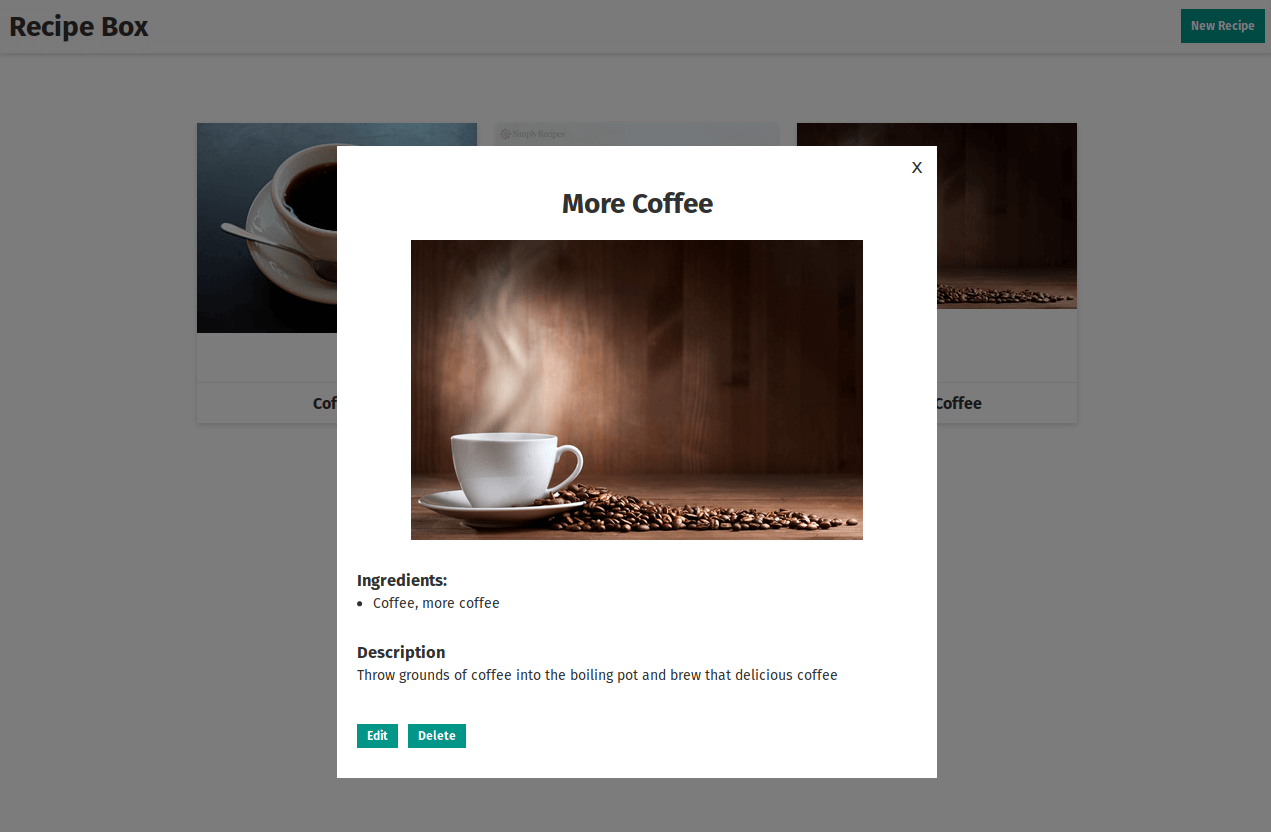
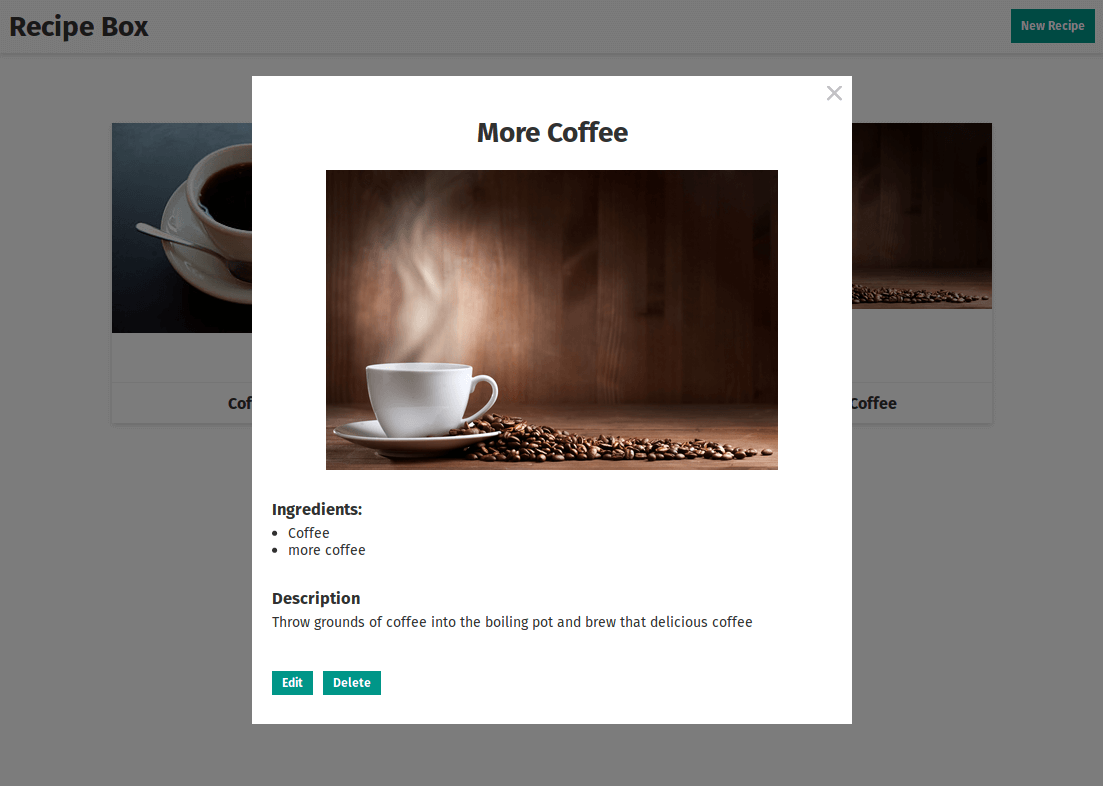
Saving recipes to local storage, added close modal button

Changed region(s): [[0.0925, 0.0916, 0.9248, 0.9466], [0.0, 0.0, 0.1541, 0.0611], [0.8939, 0.0, 1.0, 0.0611]]

diff --git a/React_projects/3.build_a_recipe_box/public/main.css b/React_projects/3.build_a_recipe_box/public/main.css
@@ -1,1 +1,1 @@
-*{padding:0;margin:0;-webkit-box-sizing:border-box;box-sizing:border-box;color:#313131;font-family:"Fira Sans", sans-serif}body{background-color:#fafafa}.navbar{display:-webkit-box;display:-webkit-flex;display:-ms-flexbox;display:flex;width:100%;padding:10px;-webkit-box-shadow:0px 2px 5px #d3d3d3;box-shadow:0px 2px 5px #d3d3d3;background-color:#f5f5f5}.spacer{-webkit-box-flex:2;-webkit-flex-grow:2;-ms-flex-positive:2;flex-grow:2}.new-recipe input[type=text],.new-recipe textarea{margin-bottom:15px}.card-title{text-align:center;margin-bottom:20px}.new-recipe button{width:80px;margin-right:10px}.overlay{position:fixed;top:0;left:0;width:100%;height:100vh;background-color:rgba(0, 0, 0, 0.5);z-index:1;cursor:pointer}.recipe-container{display:-webkit-box;display:-webkit-flex;display:-ms-flexbox;display:flex;margin:0 auto;max-width:100%;width:940px;padding:60px 20px;-webkit-box-orient:horizontal;-webkit-box-direction:normal;-webkit-flex-flow:row;-ms-flex-flow:row;flex-flow:row;-webkit-flex-wrap:wrap;-ms-flex-wrap:wrap;flex-wrap:wrap;-webkit-box-pack:center;-webkit-justify-content:center;-ms-flex-pack:center;justify-content:center}.recipe{margin:10px;width:280px;max-width:100%;-webkit-box-shadow:0px 2px 5px #d3d3d3;box-shadow:0px 2px 5px #d3d3d3;cursor:pointer;position:relative;height:300px}.recipe img{width:100%;max-width:100%;max-height:280px}.recipe .title{text-align:center;font-weight:700;font-size:16px;position:absolute;line-height:40px;left:50%;-webkit-transform:translate(-50%, 0);-ms-transform:translate(-50%, 0);transform:translate(-50%, 0);bottom:0;border-top:1px solid #e9e9e9;width:100%}.modal{width:600px;max-width:100%;position:fixed;left:50%;top:50%;-webkit-transform:translate(-50%, -50%);-ms-transform:translate(-50%, -50%);transform:translate(-50%, -50%);z-index:2;background-color:#fff;padding:40px 20px 0;max-height:calc(100vh - 150px);overflow-y:auto}.modal-close{position:absolute;top:5px;right:5px;width:30px;height:30px;cursor:pointer;text-align:center;line-height:30px;-webkit-transition:all 0.2s linear;-o-transition:all 0.2s linear;transition:all 0.2s linear;font-family:monospace;font-size:20px}.modal-close:hover{background-color:#009688;color:#fff}.modal-bottom-padding{display:block;width:100%;height:30px}.view-recipe img{max-width:100%;max-height:300px;height:auto;display:block;margin:20px auto}.view-recipe h3{margin-top:30px;margin-bottom:5px}.view-recipe .title{font-size:28px;text-align:center;margin-bottom:20px}.view-recipe ul{list-style-position:inside}.error-message{color:red}.row{display:-webkit-box;display:-webkit-flex;display:-ms-flexbox;display:flex;width:100%}.btn-manage-row button{margin-top:40px;margin-right:10px}button{background-color:#009688;color:#fff;border:none;padding:5px 10px;font-weight:700;cursor:pointer;-webkit-transition:all 0.2s linear;-o-transition:all 0.2s linear;transition:all 0.2s linear}button:hover{-webkit-box-shadow:0px 2px 5px #d3d3d3;box-shadow:0px 2px 5px #d3d3d3}input[type=email],input[type=password],input[type=text],textarea{font-family:"Fira Sans", sans-serif;font-size:14px;color:#313131;border:1px solid #c2c0c2;-webkit-transition:all 0.2s linear;-o-transition:all 0.2s linear;transition:all 0.2s linear;-webkit-box-shadow:none;box-shadow:none;outline:none;padding:2px 5px;width:100%}.description{height:100px}input[type=email],input[type=password],input[type=text]{height:30px}input[type=email]:focus,input[type=password]:focus,input[type=text]:focus,textarea:focus{border:1px solid #8a8a8a;-webkit-box-shadow:2px 2px 8px rgba(0, 0, 0, 0.1);box-shadow:2px 2px 8px rgba(0, 0, 0, 0.1)}label{font-family:"Fira Sans", sans-serif;font-size:14px;color:#313131}
+*{padding:0;margin:0;-webkit-box-sizing:border-box;box-sizing:border-box;color:#313131;font-family:"Fira Sans", sans-serif}body{background-color:#fafafa}.navbar{display:-webkit-box;display:-webkit-flex;display:-ms-flexbox;display:flex;width:100%;padding:10px;-webkit-box-shadow:0px 2px 5px #d3d3d3;box-shadow:0px 2px 5px #d3d3d3;background-color:#f5f5f5}.spacer{-webkit-box-flex:2;-webkit-flex-grow:2;-ms-flex-positive:2;flex-grow:2}.new-recipe input[type=text],.new-recipe textarea{margin-bottom:15px}.card-title{text-align:center;margin-bottom:20px}.new-recipe button{width:80px;margin-right:10px}.overlay{position:fixed;top:0;left:0;width:100%;height:100vh;background-color:rgba(0, 0, 0, 0.5);z-index:1;cursor:pointer}.recipe-container{display:-webkit-box;display:-webkit-flex;display:-ms-flexbox;display:flex;margin:0 auto;max-width:100%;width:940px;padding:60px 20px;-webkit-box-orient:horizontal;-webkit-box-direction:normal;-webkit-flex-flow:row;-ms-flex-flow:row;flex-flow:row;-webkit-flex-wrap:wrap;-ms-flex-wrap:wrap;flex-wrap:wrap;-webkit-box-pack:center;-webkit-justify-content:center;-ms-flex-pack:center;justify-content:center}.recipe{margin:10px;width:280px;max-width:100%;-webkit-box-shadow:0px 2px 5px #d3d3d3;box-shadow:0px 2px 5px #d3d3d3;cursor:pointer;position:relative;height:300px}.recipe img{width:100%;max-width:100%;max-height:280px}.recipe .title{text-align:center;font-weight:700;font-size:16px;position:absolute;line-height:40px;left:50%;-webkit-transform:translate(-50%, 0);-ms-transform:translate(-50%, 0);transform:translate(-50%, 0);bottom:0;border-top:1px solid #e9e9e9;width:100%}.modal{width:600px;max-width:100%;position:fixed;left:50%;top:50%;-webkit-transform:translate(-50%, -50%);-ms-transform:translate(-50%, -50%);transform:translate(-50%, -50%);z-index:2;background-color:#fff;padding:40px 20px 0;max-height:calc(100vh - 150px);overflow-y:auto}.modal-close{position:absolute;top:10px;right:10px;cursor:pointer;stroke-width:8;color:#313131;stroke:#c2c2c2;stroke-linecap:round;fill:none;-webkit-transition:all 0.2s linear;-o-transition:all 0.2s linear;transition:all 0.2s linear}.modal-close:hover{stroke:#313131}.modal-bottom-padding{display:block;width:100%;height:30px}.view-recipe img{max-width:100%;max-height:300px;height:auto;display:block;margin:20px auto}.view-recipe h3{margin-top:30px;margin-bottom:5px}.view-recipe .title{font-size:28px;text-align:center;margin-bottom:20px}.view-recipe ul{list-style-position:inside}.error-message{color:red}.row{display:-webkit-box;display:-webkit-flex;display:-ms-flexbox;display:flex;width:100%}.btn-manage-row button{margin-top:40px;margin-right:10px}button{background-color:#009688;color:#fff;border:none;padding:5px 10px;font-weight:700;cursor:pointer;-webkit-transition:all 0.2s linear;-o-transition:all 0.2s linear;transition:all 0.2s linear}button:hover{-webkit-box-shadow:0px 2px 5px #d3d3d3;box-shadow:0px 2px 5px #d3d3d3}input[type=email],input[type=password],input[type=text],textarea{font-family:"Fira Sans", sans-serif;font-size:14px;color:#313131;border:1px solid #c2c0c2;-webkit-transition:all 0.2s linear;-o-transition:all 0.2s linear;transition:all 0.2s linear;-webkit-box-shadow:none;box-shadow:none;outline:none;padding:2px 5px;width:100%}.description{height:100px}input[type=email],input[type=password],input[type=text]{height:30px}input[type=email]:focus,input[type=password]:focus,input[type=text]:focus,textarea:focus{border:1px solid #8a8a8a;-webkit-box-shadow:2px 2px 8px rgba(0, 0, 0, 0.1);box-shadow:2px 2px 8px rgba(0, 0, 0, 0.1)}label{font-family:"Fira Sans", sans-serif;font-size:14px;color:#313131}

diff --git a/React_projects/3.build_a_recipe_box/src/App.js b/React_projects/3.build_a_recipe_box/src/App.js
@@ -5,7 +5,7 @@ import { NewRecipeModal } from './NewRecipe';
 
 // Global storage for handling recipe data. Each component has access to globalStorage
 // data
-let globalStorage = {
+let defaultRecipes = {
     "Coffee": {
         "image": "https://upload.wikimedia.org/wikipedia/commons/thumb/4/45/A_small_cup_of_coffee.JPG/275px-A_small_cup_of_coffee.JPG",
         "ingredients": ["Hot Water", "Coffee"],
@@ -29,7 +29,7 @@ class App extends React.Component {
     constructor(props) {
         super(props);
         this.state = {
-            recipes: globalStorage,
+            recipes: "",
             // for storing data for new recipe
             newRecipeOpen: false,
             newTitle: "",
@@ -61,6 +61,22 @@ class App extends React.Component {
         this.recipeEdit = this.recipeEdit.bind(this);
     }
 
+    // on component mount import recipes from local storage
+    // otherwise load default three recipes
+    componentWillMount() {
+        let ls = localStorage.getItem('recipes');
+        // recipes in local storage exist, load recipes from
+        // local storage
+        if (ls !== null) {
+            this.setState({ recipes: JSON.parse(ls) });
+            return;
+        }
+        // local storage does not exist => load default recipes
+        this.setState({ recipes: defaultRecipes });
+    }
+
+    // open 'new' recipe modal, for creating new recipes
+    // or modifying existing recipes
     openNewRecipe() {
         if (!this.state.newRecipeOpen) {
             this.setState({ newRecipeOpen: true });
@@ -74,8 +90,8 @@ class App extends React.Component {
         this.setState({ [id]: val })
     }
 
-    // Save new recipe to the local storage
-    // TODO: save the recipe to the local storage
+    // Save new recipe to state and local storage or display
+    // error message
     newRecipeSave() {
         let title = this.state.newTitle;
         let desc = this.state.newDescription;
@@ -115,21 +131,7 @@ class App extends React.Component {
         }
 
         let recipes = Object.assign({}, this.state.recipes)
-        // Adding completely new recipe
-        if (!this.state.editRecipe) {
-            recipes[title] = {
-                image: image,
-                description: desc,
-                ingredients: ingredients
-            }
-            this.setState({
-                recipes: recipes,
-                newRecipeOpen: !this.state.newRecipeOpen
-            });
-            return
-        }
-
-        // if we are modifying existing recipe delete
+        // if we are modifying existing recipe first we have to delete
         // exisiting recipe
         if (this.state.editRecipe) {
             delete recipes[this.state.editRecipeOldTitle]
@@ -146,6 +148,8 @@ class App extends React.Component {
             newRecipeOpen: false, // close modal
             editRecipe: false, // we are not editing recipe anymore
         }, () => { this.clearNewFields() });
+        // add recipes to local storage
+        localStorage.setItem('recipes', JSON.stringify(recipes));
     }
 
     // clears fields that populate modal for editing and modifying
@@ -188,6 +192,7 @@ class App extends React.Component {
         let recipes = Object.assign({}, this.state.recipes); // creating copy
         delete recipes[this.state.viewRecipeTitle]
         this.setState({ recipes: recipes });
+        localStorage.setItem('recipes', JSON.stringify(recipes)); // add to local storage
         this.recipeClose();
     }
 

diff --git a/React_projects/3.build_a_recipe_box/src/NewRecipe.js b/React_projects/3.build_a_recipe_box/src/NewRecipe.js
@@ -1,4 +1,5 @@
 import React from 'react';
+import { CloseModal } from './closeButton';
 
 // renders modal for adding new recipe
 class NewRecipeModal extends React.Component {
@@ -7,6 +8,7 @@ class NewRecipeModal extends React.Component {
             return (
                 <div>
                     <div className="modal new-recipe">
+                        <CloseModal onClick={this.props.onCancel} />
                         <h2 className="card-title"> New Recipe </h2>
                         <label htmlFor="newTitle">Title: </label><br />
                         <input id="newTitle" type="text" placeholder="Recipe title"
@@ -39,7 +41,7 @@ class NewRecipeModal extends React.Component {
                     </div>
 
                     <div className="overlay" onClick={this.props.onCancel}> </div>
-                </div>
+                </div >
             )
         } else {
             return (

diff --git a/React_projects/3.build_a_recipe_box/src/Recipe.js b/React_projects/3.build_a_recipe_box/src/Recipe.js
@@ -1,4 +1,5 @@
 import React from 'react';
+import { CloseModal } from './closeButton';
 
 class RecipeContainer extends React.Component {
     render() {
@@ -37,7 +38,8 @@ class ViewRecipe extends React.Component {
             return (
                 <div>
                     <div className="modal view-recipe">
-                        <div className="modal-close" onClick={this.props.close}>x</div>
+                        <CloseModal onClick={this.props.close} />
+
                         <h2 className="title"> {this.props.title} </h2>
                         <img src={this.props.data.image} alt={this.props.title} />
                         <h3> Ingredients: </h3>

diff --git a/React_projects/3.build_a_recipe_box/public/main.scss b/React_projects/3.build_a_recipe_box/public/main.scss
@@ -124,21 +124,19 @@ body {
 
 .modal-close {
     position: absolute;
-    top: 5px;
-    right: 5px;
-    width: 30px;
-    height: 30px;
+    top: 10px;
+    right: 10px;
     cursor: pointer;
-    text-align: center;
-    line-height: 30px;
+    stroke-width: 8;
+    color: $color-text;
+    stroke: #c2c2c2;
+    stroke-linecap: round;
+    fill: none;
     transition: $transition-default;
-    font-family: monospace;
-    font-size: 20px;
 }
 
 .modal-close:hover {
-    background-color: #009688;
-    color: #fff;
+    stroke: $color-text;
 }
 
 // overflow-y removes bottom padding from modal in firefox

diff --git a/React_projects/3.build_a_recipe_box/src/closeButton.js b/React_projects/3.build_a_recipe_box/src/closeButton.js
@@ -1,0 +1,19 @@
+import React from 'react';
+
+class CloseModal extends React.Component {
+    render() {
+
+        return (
+            <div onClick={this.props.onClick} className="modal-close">
+                <svg viewBox="0 0 47.324812 47.322568" height="15px" width="15px">
+                    <g transform="translate(-160 -281)">
+                        <path d="m203 285-39 39" />
+                        <path d="m164 285 39.2 39.2" />
+                    </g>
+                </svg>
+            </div>
+        )
+    }
+}
+
+export { CloseModal }
